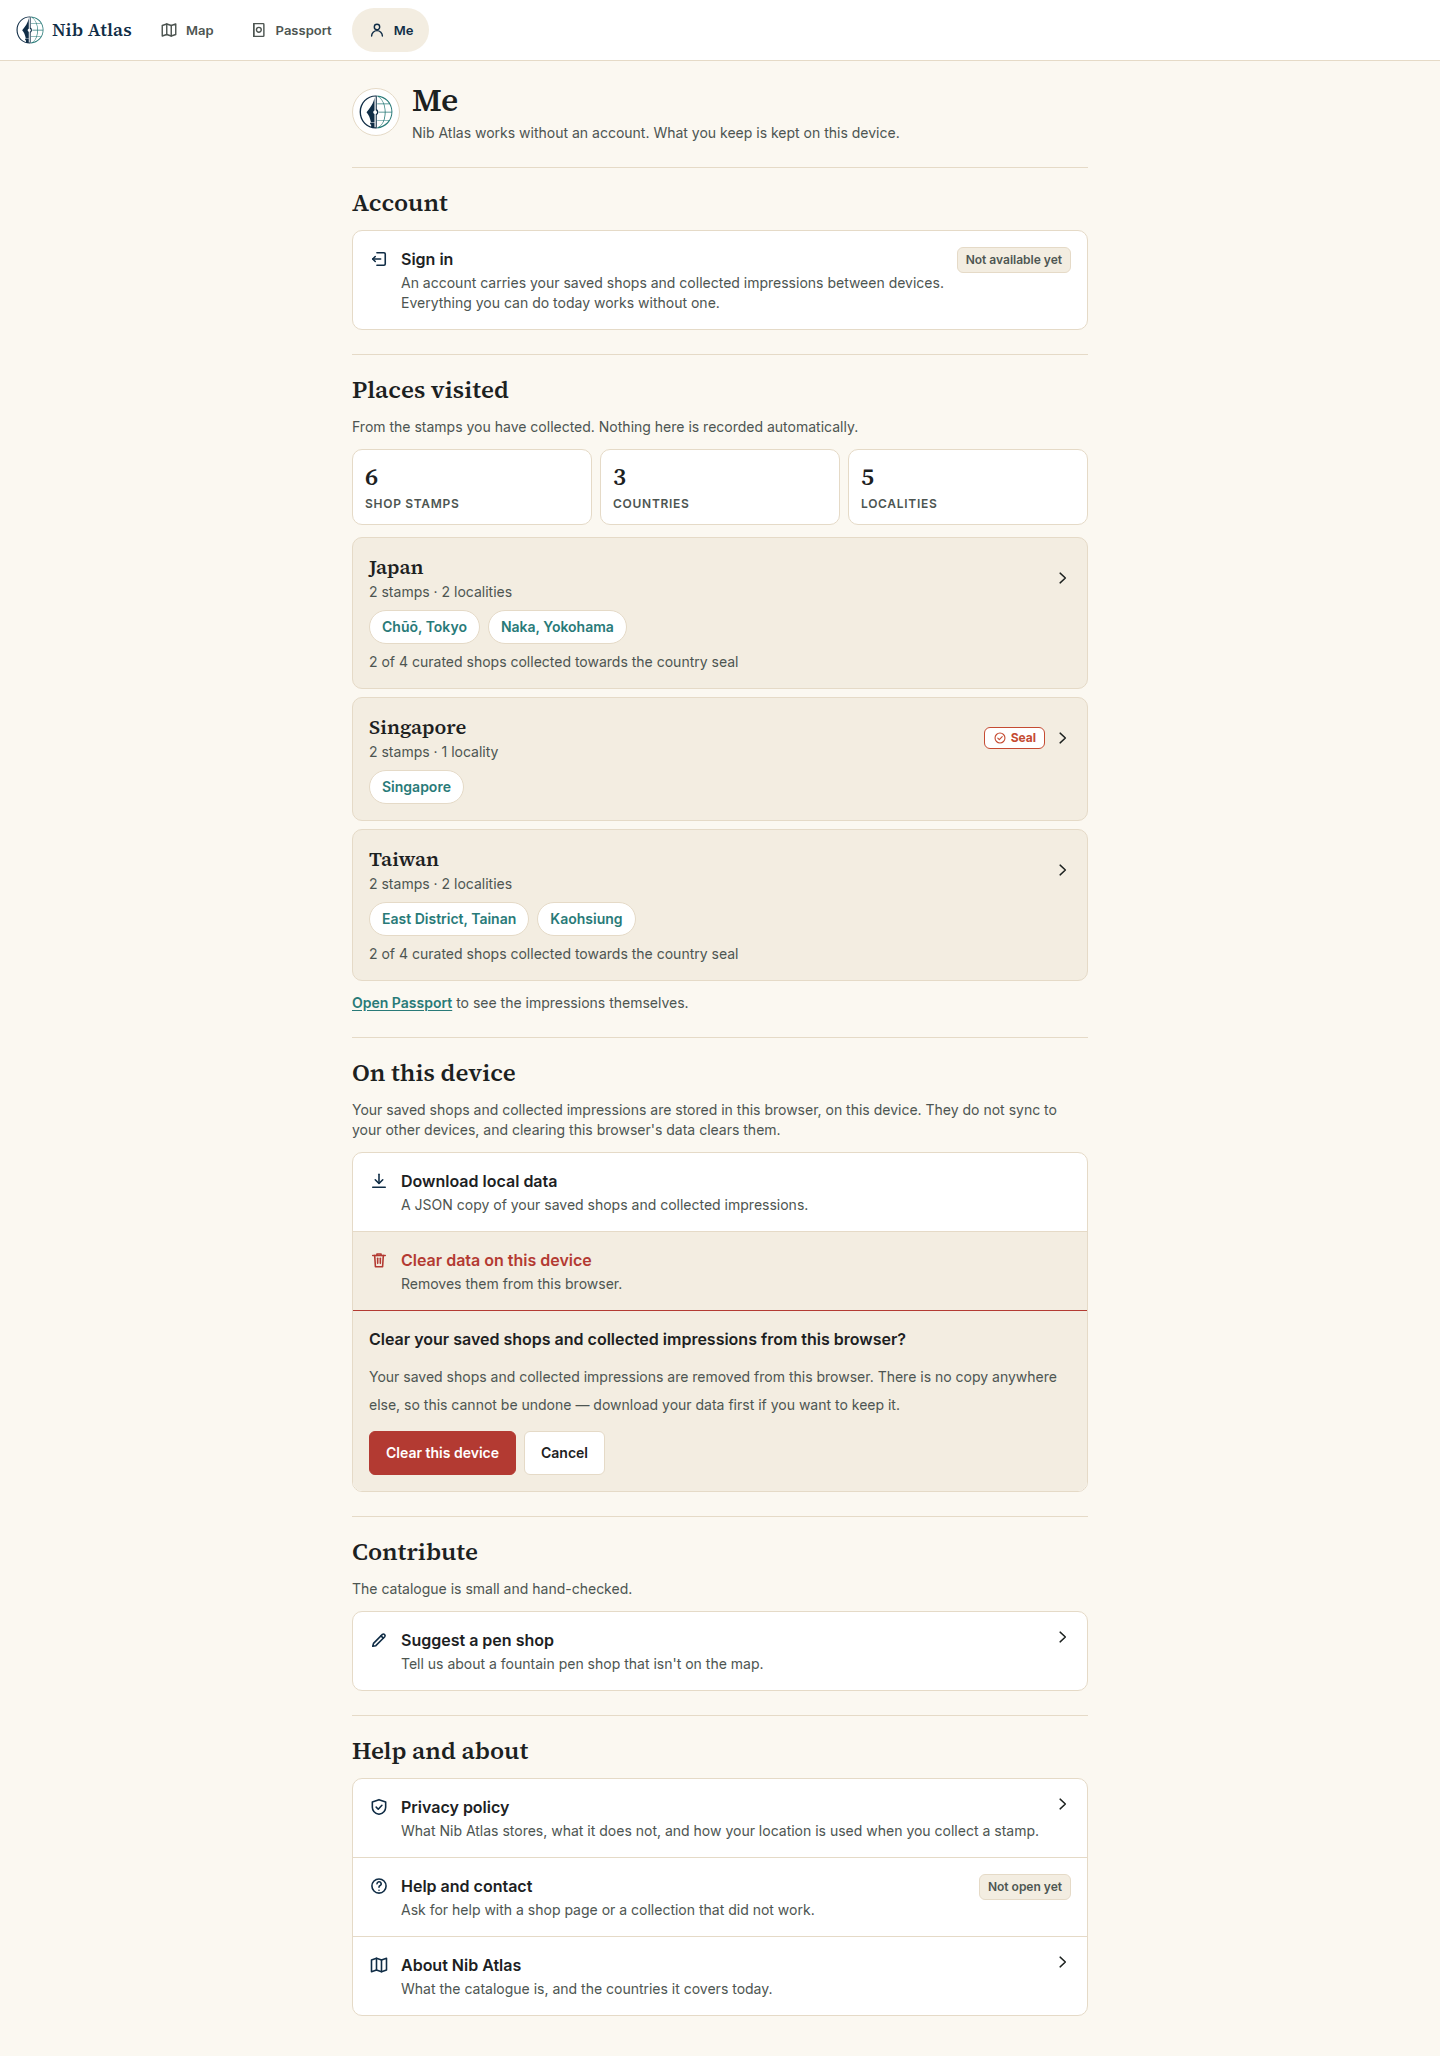
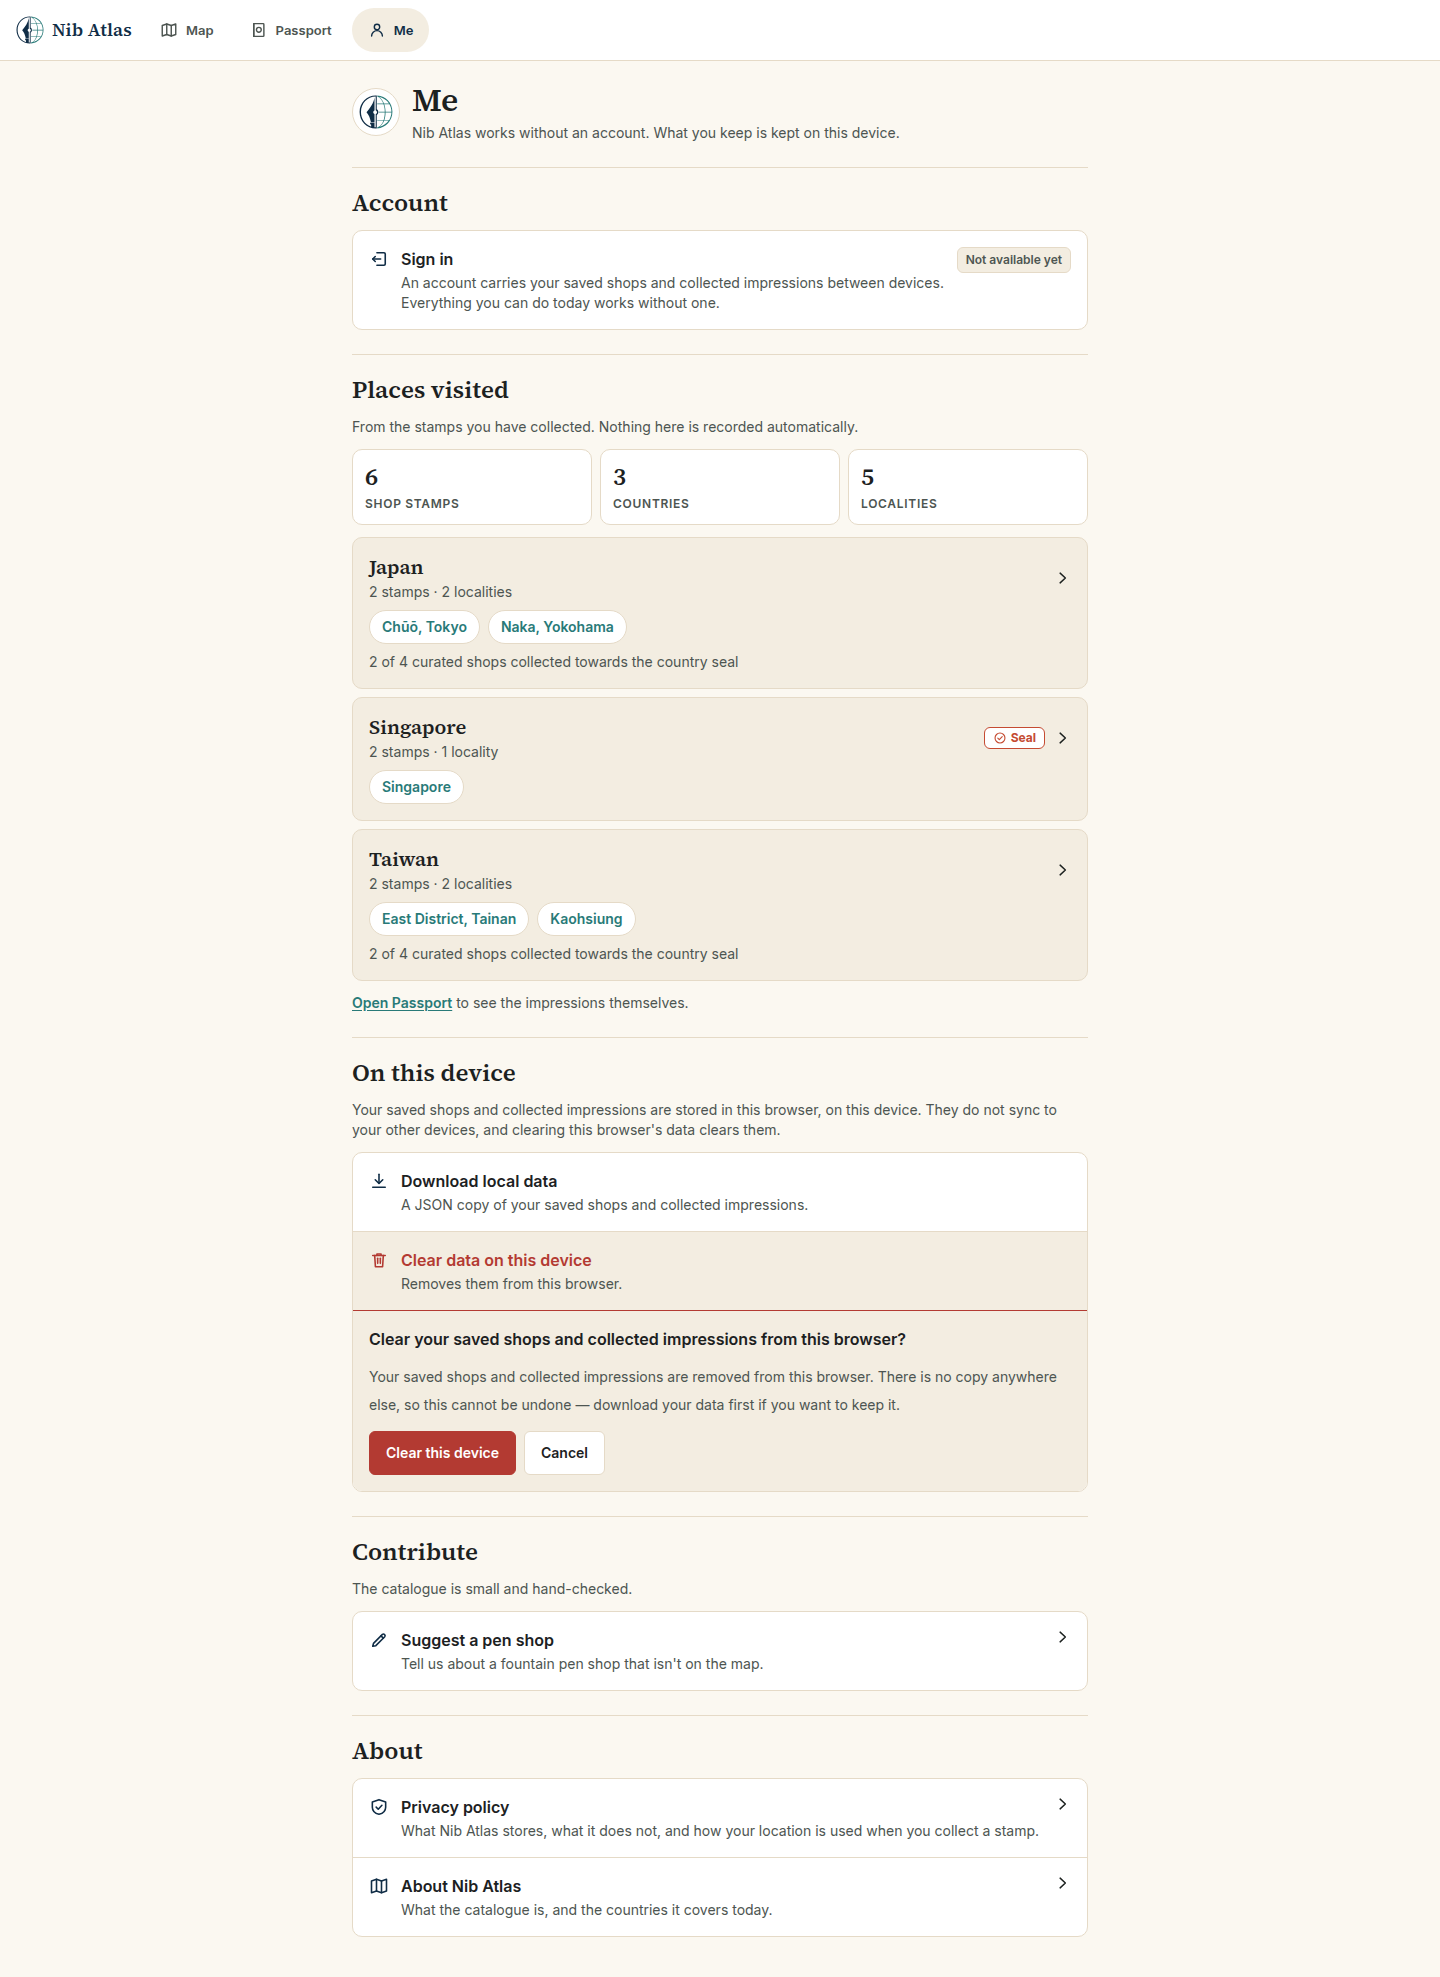
WP2 cleanup — Help and contact leaves Me
Settles the item the staging review raised. Help and contact was the last row
in Me carrying "Not open yet", and the reasoning that removed Report incorrect
information applies to it unchanged: a visible control that cannot be used is
prototype scaffolding whether or not it is the only one left.

The group it sat in was called "Help and about". With no help in it that heading
is the same inaccuracy one level up, so the section is now "About" — Privacy
policy and About Nib Atlas signed out, About Nib Atlas and Sign out signed in.
Its anchor moved from #me-help to #me-about; nothing linked to the old one.

Routing is recorded under WP7 and deliberately not specified: destination,
subject line and copy are all open, an address may not be the right answer, and
unlike the two contribution routes that decision has never been made. WP7's
scope line now names the three routes it owns.

Nothing that works was touched. Suggest a pen shop keeps its route and subject
tag, Privacy policy still reaches /privacy, and About Nib Atlas still reaches
/about — asserted together in one test, in both the component suite and the
journeys, so a future removal cannot take one of them with it.

Me now carries no unusable control at all. "Not available yet" on Sign in and
Export account data is a different claim and stays: it describes an account that
will exist, which is product information rather than a control that cannot be
[…]

diff --git a/tests/e2e/me.spec.ts b/tests/e2e/me.spec.ts
@@ -79,7 +79,44 @@ test.describe("signed out", () => {
      * mail can name the shop.
      */
     await expect(contribute.getByText(/report incorrect information/i)).toHaveCount(0);
-    await expect(contribute.getByText(/not open yet/i)).toHaveCount(0);
+  });
+
+  /*
+   * The end of that reasoning: no row anywhere in Me carries "Not open yet".
+   * Both rows that did are gone, and WP7 owns what replaces them.
+   *
+   * "Not available yet" is a different claim and stays — Sign in describes an
+   * account that will exist, which is product information rather than a control
+   * that cannot be pressed.
+   */
+  test("carries no unusable controls at all", async ({ page }) => {
+    await seedSampleCollection(page);
+    await page.goto("/me");
+
+    await expect(page.getByText(/not open yet/i)).toHaveCount(0);
+    await expect(page.getByText(/help and contact/i)).toHaveCount(0);
+    await expect(page.getByRole("region", { name: /help and about/i })).toHaveCount(0);
+  });
+
+  /** The three destinations that do work are untouched by the removals. */
+  test("keeps every route that works", async ({ page }) => {
+    await page.goto("/me");
+
+    await expect(page.getByRole("link", { name: /privacy policy/i })).toHaveAttribute(
+      "href",
+      "/privacy",
+    );
+    await expect(page.getByRole("link", { name: /about nib atlas/i })).toHaveAttribute(
+      "href",
+      "/about",
+    );
+    await expect(
+      page.getByRole("link", { name: /suggest a pen shop/i }),
+    ).toHaveAttribute("href", "mailto:hello@nibatlas.com?subject=%5BSuggest%20shop%5D");
+
+    // And they still arrive.
+    await page.getByRole("link", { name: /about nib atlas/i }).click();
+    await expect(page).toHaveURL(/\/about$/);
   });
 
   /*

diff --git a/src/features/me/MeScreen.test.tsx b/src/features/me/MeScreen.test.tsx
@@ -120,7 +120,42 @@ describe("Me, signed out", () => {
     expect(
       within(contribute).queryByText(/report incorrect information/i),
     ).not.toBeInTheDocument();
-    expect(within(contribute).queryByText(/not open yet/i)).not.toBeInTheDocument();
+  });
+
+  /*
+   * The end of that reasoning: no row anywhere in Me carries "Not open yet".
+   * Both rows that did are gone, and WP7 owns what replaces them.
+   *
+   * "Not available yet" is a different claim and stays — Sign in and Export
+   * account data describe an account that will exist, which is product
+   * information rather than a control that cannot be pressed.
+   */
+  it("carries no unusable controls at all", () => {
+    renderMe({ collection: "seeded" });
+
+    expect(screen.queryByText(/not open yet/i)).not.toBeInTheDocument();
+    expect(screen.queryByText(/help and contact/i)).not.toBeInTheDocument();
+    expect(
+      screen.queryByRole("region", { name: /help and about/i }),
+    ).not.toBeInTheDocument();
+  });
+
+  /** The three destinations that do work are untouched by the removals. */
+  it("keeps every route that works", () => {
+    renderMe();
+
+    expect(screen.getByRole("link", { name: /privacy policy/i })).toHaveAttribute(
+      "href",
+      "/privacy",
+    );
+    expect(screen.getByRole("link", { name: /about nib atlas/i })).toHaveAttribute(
+      "href",
+      "/about",
+    );
+    expect(screen.getByRole("link", { name: /suggest a pen shop/i })).toHaveAttribute(
+      "href",
+      "mailto:hello@nibatlas.com?subject=%5BSuggest%20shop%5D",
+    );
   });
 
   /*

diff --git a/src/features/me/MeScreen.tsx b/src/features/me/MeScreen.tsx
@@ -748,7 +748,17 @@ export function MeScreen() {
 
       <Contribute />
 
-      <Section id="me-help" title="Help and about">
+      {/*
+        No help row.
+
+        It was the last entry in Me carrying *Not open yet*, and the founder's
+        staging review removed it for the same reason as the correction row: a
+        visible control that cannot be used is prototype scaffolding. The
+        section is renamed with it — a group called "Help and about" that offers
+        no help is the same inaccuracy one level up. WP7 owns the help route and
+        will decide where it belongs.
+      */}
+      <Section id="me-about" title="About">
         <ul className={styles.rows}>
           {/*
             Privacy is its own group once signed in, where the account controls
@@ -763,13 +773,6 @@ export function MeScreen() {
               title="Privacy policy"
             />
           )}
-          <Row
-            action="Not open yet"
-            detail="Ask for help with a shop page or a collection that did not work."
-            icon="help"
-            reviewerAction="Routing arrives in WP7"
-            title="Help and contact"
-          />
           <Row
             detail="What the catalogue is, and the countries it covers today."
             href="/about"

diff --git a/docs/milestone-1-5-product-refinement.md b/docs/milestone-1-5-product-refinement.md
@@ -182,6 +182,14 @@ Its copy is approved as natural product language rather than an instruction:
 
 WP7 attaches the `[Shop correction]` route to that, carrying the shop name.
 
+**Help and contact is also WP7's, and is deliberately not specified here.**
+Recorded 27 August 2026, with the same amendment. It was the last row in Me
+carrying *Not open yet* and was removed for the same reason as the correction
+row. Its destination, subject line and copy are open questions — an address may
+not be the right answer at all, and unlike the two contribution routes above,
+this decision has never been made. WP7 owns making it. Nothing in WP2 invents
+it.
+
 ### 9. Scope
 
 WP1–WP7 below are Milestone 1.5. PR #5 must not grow indefinitely.
@@ -276,12 +284,12 @@ visited, if local stamps exist, linked into Passport · Preferences and
 accessibility · **On this device** (what is stored locally, that it does not sync
 and is lost if browser data is cleared or the PWA is removed, Download local
 data, Clear data on this device) · **Contribute** (Suggest a pen shop) ·
-Privacy · Help · About Nib Atlas.
+Privacy · About Nib Atlas.
 
 **Signed in** — optional display name and account identity · **Places visited**,
 compact and clickable, where a country entry opens that country's Passport
 section or filtered List view · Privacy and your data (export, download) ·
-Contribute · Help · About · Sign out · then a separated **Danger** group with
+Contribute · About · Sign out · then a separated **Danger** group with
 **Delete account** in `--error`, behind a confirmation.
 
 *Amended 27 August 2026:* **Preferences and accessibility** is not part of either
@@ -370,7 +378,7 @@ that feedback exists.
 | **WP4** | Shop value layer: the data-model extension, sourced content, reordered page, native directions, contextual report | WP1, sourcing | Not started |
 | **WP5** | Visual fidelity: shop identity system, interim hero, paper and cover texture, stamp at large size, ceremony material pass | WP3, WP4 | Not started |
 | **WP6** | Filter drawer: segment plus drawer, active count, one-tap clear | WP1 | Not started |
-| **WP7** | Contribution flows: `mailto` routing now, `/suggest-shop` page later | WP2 | Not started |
+| **WP7** | Contact and contribution routes: the contextual shop-page correction, help and contact, and the `/suggest-shop` page later. *Suggest a pen shop* is routed in WP2 | WP2 | Not started |
 | **WP-D** | **Required desktop audit** across all of the above | Founder desktop feedback | Not started |
 
 WP1 is the smallest package with the largest effect on testability: it is what
@@ -956,18 +964,47 @@ deletes the preview. Every consumer keeps the same shape.
     interaction already demonstrates, not that it should say less about what it
     is doing to the reader's data.
 
+22. **Help and contact leaves Me, and the section is renamed with it.** The
+    founder settled the item revision 19 raised: it was the last row carrying
+    *Not open yet*, and the reasoning that removed *Report incorrect
+    information* applies to it unchanged. A visible control that cannot be used
+    is prototype scaffolding whether or not it is the only one left.
+
+    The group it sat in was called **Help and about**. With no help in it, that
+    heading is the same inaccuracy one level up, so the section is now **About**
+    — holding Privacy policy and About Nib Atlas signed out, and About Nib Atlas
+    and Sign out signed in. Its anchor moved from `#me-help` to `#me-about`;
+    nothing linked to the old one.
+
+    Its routing is recorded under WP7 and deliberately **not** specified here:
+    destination, subject line and copy are all open, an address may not be the
+    right answer, and unlike the two contribution routes that decision has never
+    been made. See the amendment to accepted decision 8.
+
+    **Nothing that works was touched.** *Suggest a pen shop* keeps its route and
+    subject tag, *Privacy policy* still reaches `/privacy`, and *About Nib
+    Atlas* still reaches `/about` — asserted together in one test, in both the
+    component suite and the journeys, so a future removal cannot take one of
+    them with it.
+
+    Me now carries no unusable control at all. *Not available yet* on **Sign in**
+    and **Export account data** is a different claim and stays: it describes an
+    account that will exist, which is product information rather than a control
+    that cannot be pressed. A test asserts the count of *Not open yet* across the
+    whole page is zero.
+
 ### WP2 revisions after the founder's staging review
 
 Recorded 27 August 2026, after the founder read WP2 on staging as an ordinary
-user. Three refinements, all copy or structure, no behaviour change: revisions 19
-to 21 above.
+user, and one follow-up settled straight after it. Four refinements, all copy or
+structure, no behaviour change: revisions 19 to 22 above.
 
 The reviewer-mode organisation was reviewed and kept as it stands.
 
-One item is raised rather than settled: **Help and contact** is now the only row
-in Me carrying *Not open yet*. The reasoning that removed *Report incorrect
-information* applies to it word for word, but it is the last support route a
-tester has, and removing it leaves none. It is left in place pending a decision.
+One item was raised rather than settled in that pass — **Help and contact**, then
+the only remaining row carrying *Not open yet* — and the founder settled it
+immediately after: remove it, on the same reasoning. Recorded as revision 22
+below.
 
 ### WP2 revisions after the Codex review
 

diff --git a/docs/evidence/milestone-1-5-wp2/README.md b/docs/evidence/milestone-1-5-wp2/README.md
@@ -26,7 +26,7 @@ paint. Reduced motion is emulated so the captures are deterministic.
 
 | Capture | What it shows |
 | --- | --- |
-| `signed-out-clean` | What a tester who has just been handed the link sees. Account offers sign-in rather than requiring it; **Places visited** is absent, because there is nothing yet to point at; **On this device** carries the local-storage fact once, next to the two controls that act on it; **Contribute** carries the one entry that works |
+| `signed-out-clean` | What a tester who has just been handed the link sees. Account offers sign-in rather than requiring it; **Places visited** is absent, because there is nothing yet to point at; **On this device** carries the local-storage fact once, next to the two controls that act on it; **Contribute** and **About** carry only entries that work |
 | `signed-out-collection` | The same reader once stamps exist. **Places visited** appears: three counts from the stamps, then one row per country linking into `/passport/[country]`, locality chips linking into `/passport/[country]/[locality]`, and seal state stated separately from the visit |
 | `clear-confirm` | **Clear data on this device** asks first. An inline panel, not a native dialog: it can be styled, screenshotted, and read in context. Focus opens on **Cancel** — the destructive button is one Tab away, so two presses of Enter cannot destroy a collection |
 | `signed-in` | The signed-in structure — account identity, optional display name, **Privacy and your data**, **Sign out**, and the separated **Danger** group. Reachable only as a reviewer preview until Milestone 4 builds authentication, and labelled as one where it renders |
@@ -35,12 +35,18 @@ paint. Reduced motion is emulated so the captures are deterministic.
 
 ## After the founder's staging review
 
-Regenerated 27 August 2026. Three things left the page and nothing was added:
+Regenerated 27 August 2026. Four things left the page and nothing was added:
 the **Preferences and accessibility** section (nothing there to set, so it is
-not a personal setting), the unrouted **Report incorrect information** row (a
-visible control that cannot be used is scaffolding — WP7 gives it its real home
-on the shop page), and the phrases that narrated interaction mechanics. Compare
-against `docs/evidence/milestone-1-5-wp1/` to see how far Me has come down.
+not a personal setting), the unrouted **Report incorrect information** and
+**Help and contact** rows (a visible control that cannot be used is scaffolding
+— WP7 owns both routes), and the phrases that narrated interaction mechanics.
+**Help and about** is renamed **About** with the help row, since a group
+offering no help is the same inaccuracy one level up.
+
+Every control now on the page works, except one honest *Not available yet* on
+**Sign in** — which describes an account that will exist rather than a control
+that cannot be pressed. Compare against `docs/evidence/milestone-1-5-wp1/` to
+see how far Me has come down.
 
 ## What the pairs are for
 
